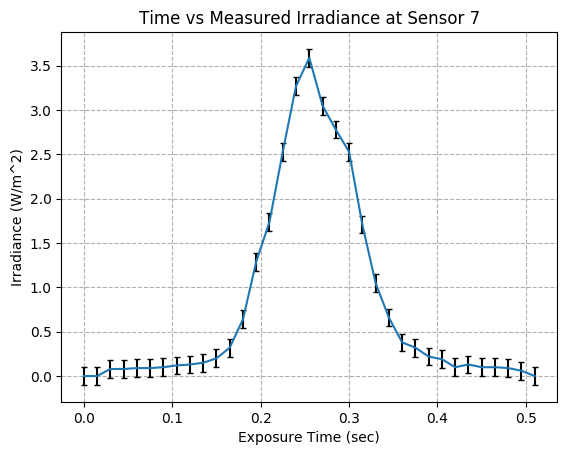
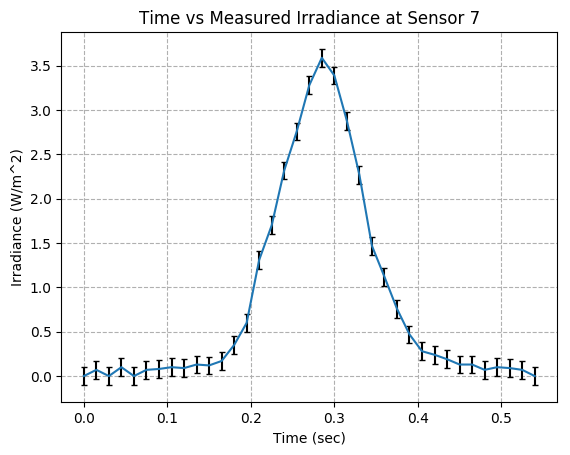
Modified x and ylables

diff --git a/src/results/ebola_sudan_only.py b/src/results/ebola_sudan_only.py
@@ -6,7 +6,7 @@ with open('ebola_sudan.csv', 'r') as file:
     reader = csv.reader(file)
     for row in reader:
         dosage = row
-        sensor_7.append(float(dosage[9]))
+        sensor_7.append(float(dosage[7]))
 
 test_list=[]
 for i in range(0, len(dosage)):
@@ -14,7 +14,7 @@ for i in range(0, len(dosage)):
 
 
 res = [sensor_7[i + 1] - sensor_7[i] for i in range(len(sensor_7)-1)]
-s7 =  res[103:138]#[i for i in res if i != 0]
+s7 =  res[85:122]#[103:138]#[i for i in res if i != 0]
 time = []
 for i in range(len(s7)):
     time.append(i*.015)
@@ -26,22 +26,22 @@ Sensors = ['S0', 'S1', 'S2', 'S3', 'S4',
            'S10', 'S11', 'S12', 'S13', 'S14'
             ]
 # plt.figure(0)
-# plt.bar(Sensors, test_list, alpha =0.5, yerr = 5, ecolor='black', capsize=2)
-# plt.axhline(y=27, color = 'b', linestyle='--')
-# plt.legend(['Required UV Dose for D90'])
-# plt.ylabel('UV Dosage (J/m^2)')
-# plt.xlabel('Array of UV sensors')
-# plt.title('Ebola Sudan Virus, k = 0.0867 m^2/J at D90')
-# plt.savefig("ebola_sudan_d90.png", bbox_inches='tight')
+plt.bar(Sensors, test_list, alpha =0.5, yerr = 5, ecolor='black', capsize=2)
+plt.axhline(y=27, color = 'b', linestyle='--')
+plt.legend(['Required UV Dose for D90'])
+plt.ylabel('UV Dosage (J/m^2)')
+plt.xlabel('Array of UV sensors')
+plt.title('Ebola Sudan Virus, k = 0.0867 m^2/J at D90')
+plt.savefig("ebola_sudan_d90.png", bbox_inches='tight')
 
 
-plt.figure(1)
-plt.grid(linestyle='--')
-plt.xlabel('Exposure Time (sec)')
-plt.ylabel('Irradiance (W/m^2)')
-plt.errorbar(time, res[103:138], yerr = .1, capsize = 2, ecolor='black')
-plt.title('Time vs Measured Irradiance at Sensor 7')
-plt.savefig("ebola_sudan_s7.png", bbox_inches='tight')
+# plt.figure(1)
+# plt.grid(linestyle='--')
+# plt.xlabel('Time (sec)')
+# plt.ylabel('Irradiance (W/m^2)')
+# plt.errorbar(time, res[85:122], yerr = .1, capsize = 2, ecolor='black')
+# plt.title('Time vs Measured Irradiance at Sensor 7')
+# plt.savefig("ebola_sudan_s7.png", bbox_inches='tight')
 plt.show()
 
 

diff --git a/src/results/ebola_sudan_all_files.py b/src/results/ebola_sudan_all_files.py
@@ -26,7 +26,6 @@ Sensors = ['S0', 'S1', 'S2', 'S3', 'S4',
            'S5', 'S6', 'S7', 'S8', 'S9',
            'S10', 'S11', 'S12', 'S13', 'S14'
             ]
-print dosages
 
 X = np.arange(15)
 # plt.add_axes([0,0,1,1])
@@ -46,9 +45,11 @@ plt.axhline(y=133, color = 'g', linestyle='--')
 
 plt.legend(['Required UV Dose at D90', 'Required UV Dose at D99.9', 'Required UV Dose at D99.999'])
 plt.title('Measured UV Dosage for Ebola Sudan at D90, D99.9, and D99.999')
-# plt.savefig("three_different_microbes.png", bbox_inches='tight')
+plt.subplots_adjust(left = 0.09, bottom = 0.10, right = 0.99, top =0.93)
 
 plt.xticks([r + 0.25 for r in range(len(Sensors))], Sensors)
 plt.ylabel('UV Dosage (J/m^2)')
 plt.xlabel('Array of UV sensors')
+plt.savefig("ebola_diff_dvalues.png", bbox_inches='tight')
+
 plt.show()
